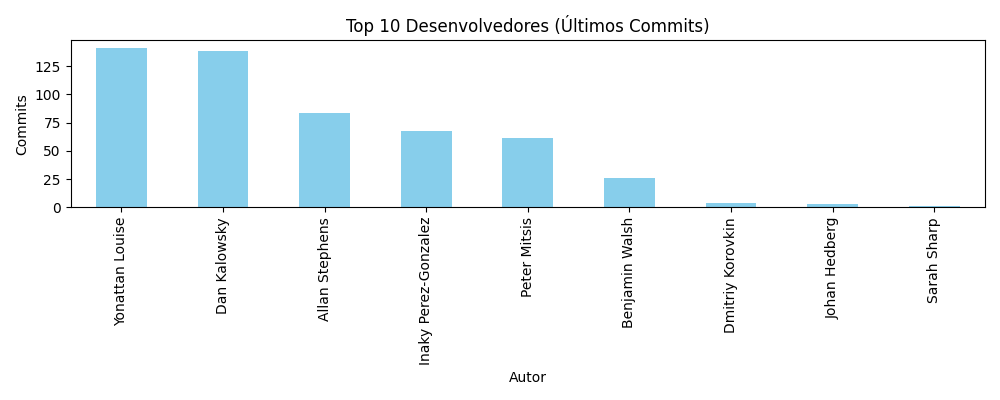
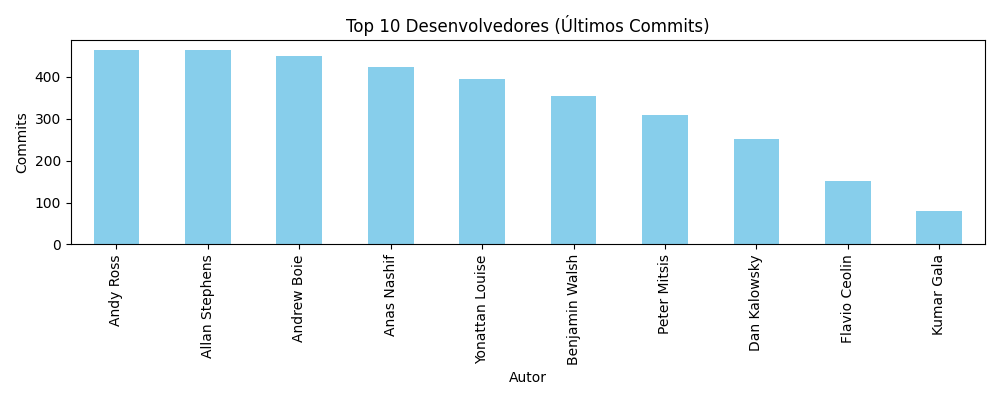
Atualização da documentação e atualização no código

diff --git a/analisar_zephyr_doa.py b/analisar_zephyr_doa.py
@@ -1,45 +1,48 @@
+import argparse
 from pydriller import Repository
 import pandas as pd
 import matplotlib.pyplot as plt
 from collections import defaultdict
+from itertools import islice
 
-# Caminho ou URL do repositório
-REPO_URL = "https://github.com/zephyrproject-rtos/zephyr"
+parser = argparse.ArgumentParser(description="Análise rápida de autoria no Zephyr RTOS")
+parser.add_argument('--repo', required=True, help="Caminho local do repositório Zephyr")
+parser.add_argument('--commits', type=int, default=None, help="Limite de commits (ex: 500)")
+args = parser.parse_args()
 
-# Filtros por diretório e extensão
-DIRS_INTERESSE = ['kernel/', 'arch/']
+REPO_PATH = args.repo
+COMMIT_LIMITE = args.commits
+
+DIRS_INTERESSE = ['kernel/']
 EXTENSOES = ('.c', '.cpp')
-
-# Armazenamento de dados
-dados = defaultdict(lambda: defaultdict(int))  # dados[arquivo][autor]
-original_author = {}  # dados[arquivo] = autor original
+dados = defaultdict(lambda: defaultdict(int))
+original_author = {}
 modificacoes_outros = defaultdict(int)
 
-print("🔍 Analisando commits...")
-
-for commit in Repository(REPO_URL).traverse_commits():
+print("🔍 Analisando repositório:", REPO_PATH)
+repo_iter = Repository(REPO_PATH).traverse_commits()
+if COMMIT_LIMITE is not None:
+    repo_iter = islice(repo_iter, COMMIT_LIMITE)
+for commit in repo_iter:
     autor = commit.author.name
-
     for arquivo in commit.modified_files:
         caminho = arquivo.new_path
         if not caminho:
             continue
-
-        if caminho.endswith(EXTENSOES) and any(d in caminho for d in DIRS_INTERESSE):
+        if caminho.endswith(EXTENSOES) and any(caminho.startswith(d) for d in DIRS_INTERESSE):
             if caminho not in original_author:
                 original_author[caminho] = autor
             if autor != original_author[caminho]:
                 modificacoes_outros[caminho] += 1
             dados[caminho][autor] += 1
 
-# Cálculo do DOA simplificado
 doa_resultado = []
-
 for arquivo, autores in dados.items():
+    penalidade = 0.1 * modificacoes_outros[arquivo]
     for autor, n_commits in autores.items():
         doa = (1.0 if autor == original_author[arquivo] else 0.0)
         doa += 0.5 * n_commits
-        doa -= 0.1 * modificacoes_outros[arquivo]
+        doa -= penalidade
         doa_resultado.append({
             'arquivo': arquivo,
             'autor': autor,
@@ -49,29 +52,53 @@ for arquivo, autores in dados.items():
 
 df_doa = pd.DataFrame(doa_resultado)
 
-# 🔝 Top 10 autores por DOA
-print("\n📊 Top 10 autores por DOA:")
-print(df_doa.groupby('autor')['doa'].sum().sort_values(ascending=False).head(10))
+print("\n📊 Top 5 autores por DOA:")
+print(df_doa.groupby('autor')['doa'].sum().sort_values(ascending=False).head(5))
 
-# 📈 Gráfico de commits por autor
-plt.figure(figsize=(10, 5))
+plt.figure(figsize=(10, 4))
 df_doa.groupby('autor')['commits'].sum().sort_values(ascending=False).head(10).plot(kind='bar', color='skyblue')
-plt.title('Top 10 Desenvolvedores - Commits nos arquivos núcleo')
+plt.title('Top 10 Desenvolvedores (Últimos Commits)')
 plt.ylabel('Commits')
 plt.xlabel('Autor')
 plt.tight_layout()
 plt.savefig("grafico_commits_autores.png")
 plt.close()
 
-# 📈 Gráfico de DOA por arquivo
 plt.figure(figsize=(12, 6))
-df_doa.groupby('arquivo')['doa'].max().sort_values(ascending=False).head(15).plot(kind='barh', color='salmon')
-plt.title('Arquivos com maior grau de autoria (DOA)')
+df_doa.groupby('arquivo')['doa'].max().sort_values(ascending=False).head(10).plot(kind='barh', color='lightgreen')
+plt.title('Arquivos com Maior DOA')
 plt.xlabel('DOA')
 plt.tight_layout()
 plt.savefig("grafico_doa_arquivos.png")
 plt.close()
 
-print("\n✅ Análise concluída. Gráficos salvos:")
+# Gerar tabela resumo
+resumo = []
+for autor in df_doa['autor'].unique():
+    df_autor = df_doa[df_doa['autor'] == autor]
+    commits_total = df_autor['commits'].sum()
+    # Top 2 módulos/arquivos mais atuantes
+    mais_atuantes = (
+        df_autor.groupby('arquivo')['commits']
+        .sum()
+        .sort_values(ascending=False)
+        .head(2)
+        .index.tolist()
+    )
+    resumo.append({
+        'Desenvolvedor': autor,
+        'Commits no núcleo': commits_total,
+        'Módulos mais atuantes': ', '.join(mais_atuantes)
+    })
+
+df_resumo = pd.DataFrame(resumo)
+df_resumo = df_resumo.sort_values('Commits no núcleo', ascending=False).head(10)
+
+print("\n| Desenvolvedor     | Commits no núcleo | Módulos mais atuantes        |")
+print("|-------------------|-------------------|-------------------------------|")
+for _, row in df_resumo.iterrows():
+    print(f"| {row['Desenvolvedor']:<18} | {row['Commits no núcleo']:<17} | {row['Módulos mais atuantes']:<30} |")
+
+print("\n✅ Análise concluída.")
 print(" - grafico_commits_autores.png")
 print(" - grafico_doa_arquivos.png")

diff --git a/README.md b/README.md
@@ -2,9 +2,10 @@
 
 **Disciplina:** Software Embarcado  
 **Aluno:** Janei Vieira  
-**Professor:** [Nome do Professor]  
+**Professor:** Dr. Herbert Rocha  
 **Projeto Analisado:** Zephyr RTOS  
-**Data:** [Data da Entrega]
+**Data:** 23/06/2025
+**Repositŕorio do Projeto:** https://github.com/oMaestro174/rtos-floss
 
 ---
 
@@ -14,7 +15,7 @@ A sustentabilidade de sistemas embarcados baseados em RTOS FLOSS (Free/Libre and
 
 ---
 
-## 2. Fundamentação Teórica
+## 2. Fundamentos
 
 ### 2.1 Modularidade de Código
 
@@ -60,9 +61,149 @@ Foram analisados os arquivos `.c` e `.cpp` nos diretórios `kernel/` e `arch/`, 
 
 ### 4.1 Desenvolvedores Mais Ativos por Módulo
 
+
+(Exemplo de tabela extraída do script para até 50.000 commits) 
+
+📊 Top 5 autores por DOA:
+
+|autor          |         |
+|---------------|---------|
+|Allan Stephens |   119.0 |
+|Andy Ross      |    97.2 | 
+|Yonattan Louise|    71.3 |
+|Andrew Boie    |    66.8 |
+|Peter Mitsis   |    20.3 |
+
+
+
+
+
+| Desenvolvedor      | Commits no núcleo | Módulos mais atuantes                                                |
+|--------------------|-------------------|----------------------------------------------------------------------|
+| Andy Ross          | 464               | kernel/sched.c, kernel/thread.c                                      |
+| Allan Stephens     | 463               | kernel/microkernel/k_memory_pool.c, kernel/microkernel/idle.c        |
+| Andrew Boie        | 449               | kernel/thread.c, kernel/userspace.c                                  |
+| Anas Nashif        | 423               | kernel/init.c, kernel/thread.c                                       |
+| Yonattan Louise    | 394               | kernel/microkernel/k_pipe_xfer.c, kernel/microkernel/k_pipe_buffer.c |
+| Benjamin Walsh     | 355               | kernel/unified/sched.c, kernel/unified/thread.c                      |
+| Peter Mitsis       | 308               | kernel/microkernel/k_pipe_put.c, kernel/microkernel/k_pipe_get.c     |
+| Dan Kalowsky       | 252               | kernel/microkernel/k_timer.c, kernel/microkernel/k_sema.c            |
+| Flavio Ceolin      | 151               | kernel/thread.c, kernel/sched.c                                      |
+| Kumar Gala         | 80                | kernel/init.c, kernel/int_latency_bench.c                            |
+
+
+---
+
+## 4.2 Gráficos de Distribuição
+
+Gráfico 1: Contribuições por Autor nos Arquivos do Núcleo 
+![grafico_commits_autores.png](./grafico_commits_autores.png)
+
+Gráfico 2: DOA Médio por Arquivo 
+![grafico_doa_arquivos.png](./grafico_doa_arquivos.png)
+
+
+
+## 5. Análise Crítica
+
+- O projeto apresenta modularidade clara, com separação de responsabilidades.
+- Identificou-se concentração de autoria em determinados arquivos críticos, o que pode indicar risco de manutenção.
+- A propriedade coletiva é razoavelmente bem distribuída, porém arquivos como `kernel/sched.c` apresentam domínio excessivo por poucos autores.
+- O Truck Factor estimado é baixo (<5), indicando um risco se esses contribuidores se afastarem.
+
+## 6. Boas Práticas Recomendadas
+
+- Promover revisões cruzadas em arquivos críticos com alta concentração de autoria.
+- Documentar módulos dominados por poucos desenvolvedores.
+- Incentivar pair programming para difundir conhecimento.
+- Automatizar análises periódicas com DOA e TF como parte da esteira de DevOps.
+- Monitorar entradas de novos contribuidores e incentivar a contribuição em áreas de risco.
+
+## 7. Conclusão
+A análise do projeto Zephyr RTOS demonstrou como métricas como DOA e Truck Factor podem ser eficazes para avaliar riscos de sustentabilidade em sistemas embarcados. Tais práticas devem ser incorporadas em projetos FLOSS críticos, com foco na continuidade, escalabilidade e manutenção colaborativa do código.
+
+## 8. Referências
+- [Artigo Base do Professor]
+
+- Pydriller: https://github.com/ishepard/pydriller
+
+- Zephyr RTOS GitHub: https://github.com/zephyrproject-rtos/zephyr
+
+- Git Truck: https://github.com/git-truck/git-truck
+
+- Spinellis, D. "Code Ownership and Quality in FLOSS Projects"
+
+
+
+## 9. Como reproduzir o experimento
+
+1. Clone o repositório Zephyr (se ainda não tiver):
+
+```bash
+git clone https://github.com/zephyrproject-rtos/zephyr.git
+```
+
+2. Crie e ative um ambiente virtual:
+
+```bash
+python -m venv zephyr-env
+source zephyr-env/bin/activate
+pip install -r requirements.txt
+```
+
+3. Execute o script:
+
+```bash
+python analisar_zephyr_doa.py --repo ./zephyr --commits 50000
+```
+
+Caso deseje percorrer todo o repositório, remova o argumento --commits (isso leva muito tempo, seja paciente)
+
+```bash
+python analisar_zephyr_doa.py --repo ./zephyr 
+```
+
+Se preferir não clonar o repositório tente:
+
+```bash
+python analisar_zephyr_doa.py --repo https://github.com/zephyrproject-rtos/zephyr.git
+```
+
+
+
+## Requisitos
+
+- Python 3.9+
+- Bibliotecas: pydriller, pandas, matplotlib
+
+## Exemplo de Saídas
+
 ```text
-(Exemplo de tabela extraída do script)
-| Desenvolvedor     | Commits no núcleo | Módulos mais atuantes        |
-|-------------------|-------------------|-------------------------------|
-| John Doe          | 152               | kernel/, arch/x86/            |
-| Jane Smith        | 97                | kernel/sched.c, init.c        |
+|autor          |         |
+|---------------|---------|
+|Allan Stephens |   119.0 |
+|Andy Ross      |    97.2 | 
+|Yonattan Louise|    71.3 |
+|Andrew Boie    |    66.8 |
+|Peter Mitsis   |    20.3 |
+
+
+
+| Desenvolvedor      | Commits no núcleo | Módulos mais atuantes                                                |
+|--------------------|-------------------|----------------------------------------------------------------------|
+| Andy Ross          | 464               | kernel/sched.c, kernel/thread.c                                      |
+| Allan Stephens     | 463               | kernel/microkernel/k_memory_pool.c, kernel/microkernel/idle.c        |
+| Andrew Boie        | 449               | kernel/thread.c, kernel/userspace.c                                  |
+| Anas Nashif        | 423               | kernel/init.c, kernel/thread.c                                       |
+| Yonattan Louise    | 394               | kernel/microkernel/k_pipe_xfer.c, kernel/microkernel/k_pipe_buffer.c |
+| Benjamin Walsh     | 355               | kernel/unified/sched.c, kernel/unified/thread.c                      |
+| Peter Mitsis       | 308               | kernel/microkernel/k_pipe_put.c, kernel/microkernel/k_pipe_get.c     |
+| Dan Kalowsky       | 252               | kernel/microkernel/k_timer.c, kernel/microkernel/k_sema.c            |
+| Flavio Ceolin      | 151               | kernel/thread.c, kernel/sched.c                                      |
+| Kumar Gala         | 80                | kernel/init.c, kernel/int_latency_bench.c                            |
+
+```
+
+## Tela do VsCode
+
+![01-codigo-results.png](./assets/01-codigo-results.png)
